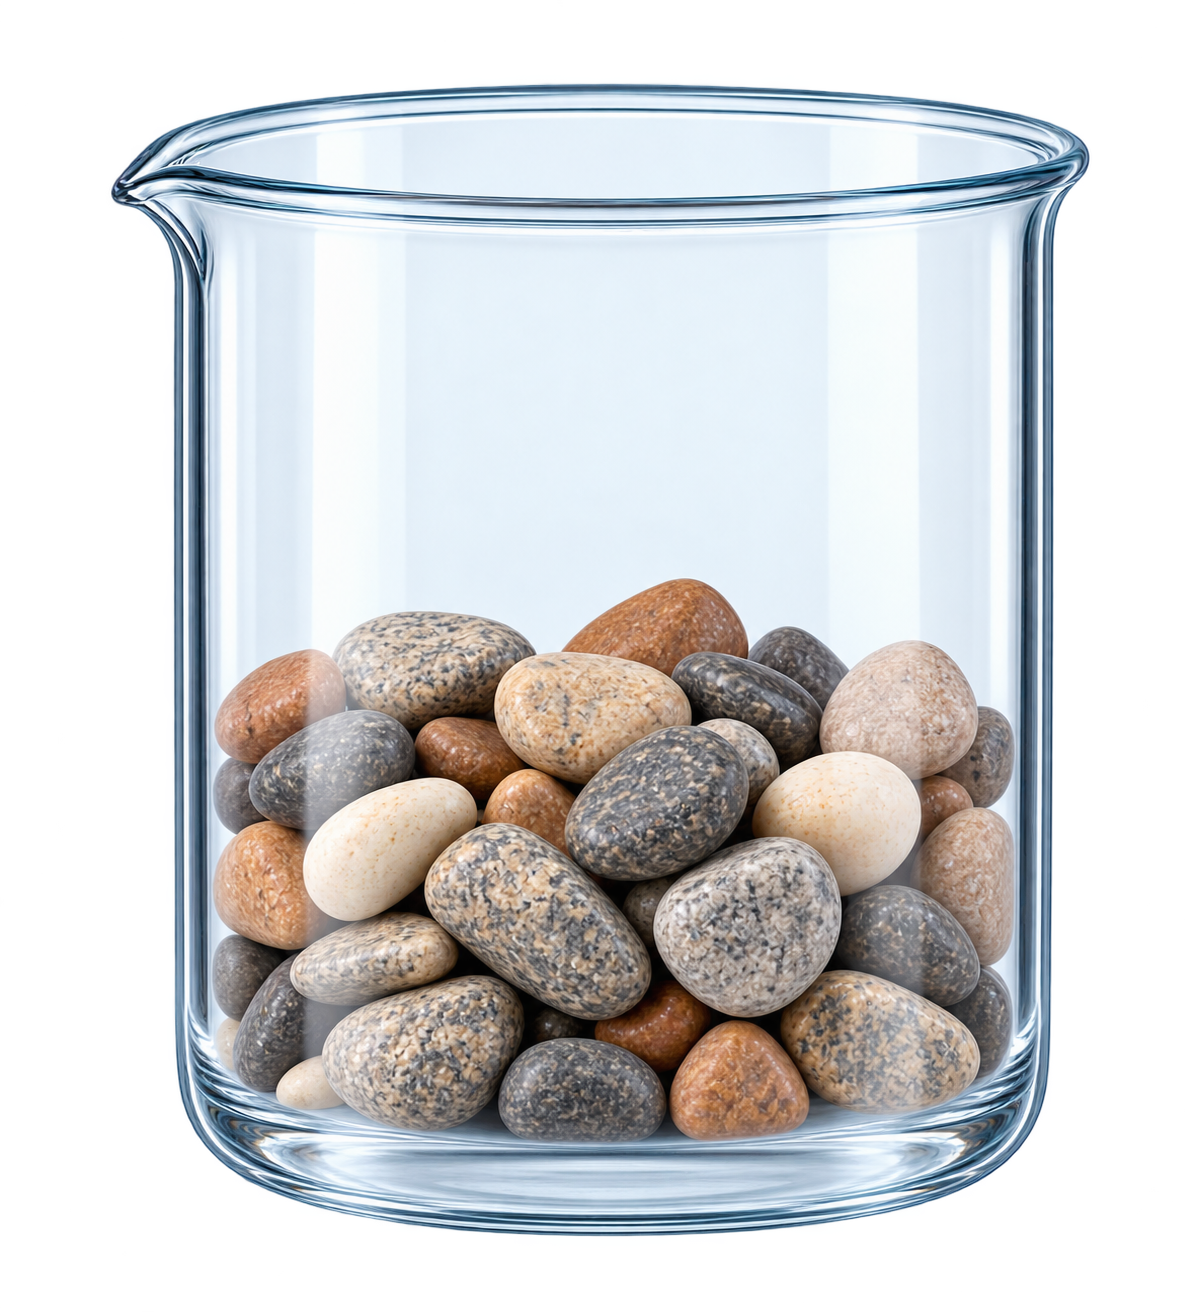
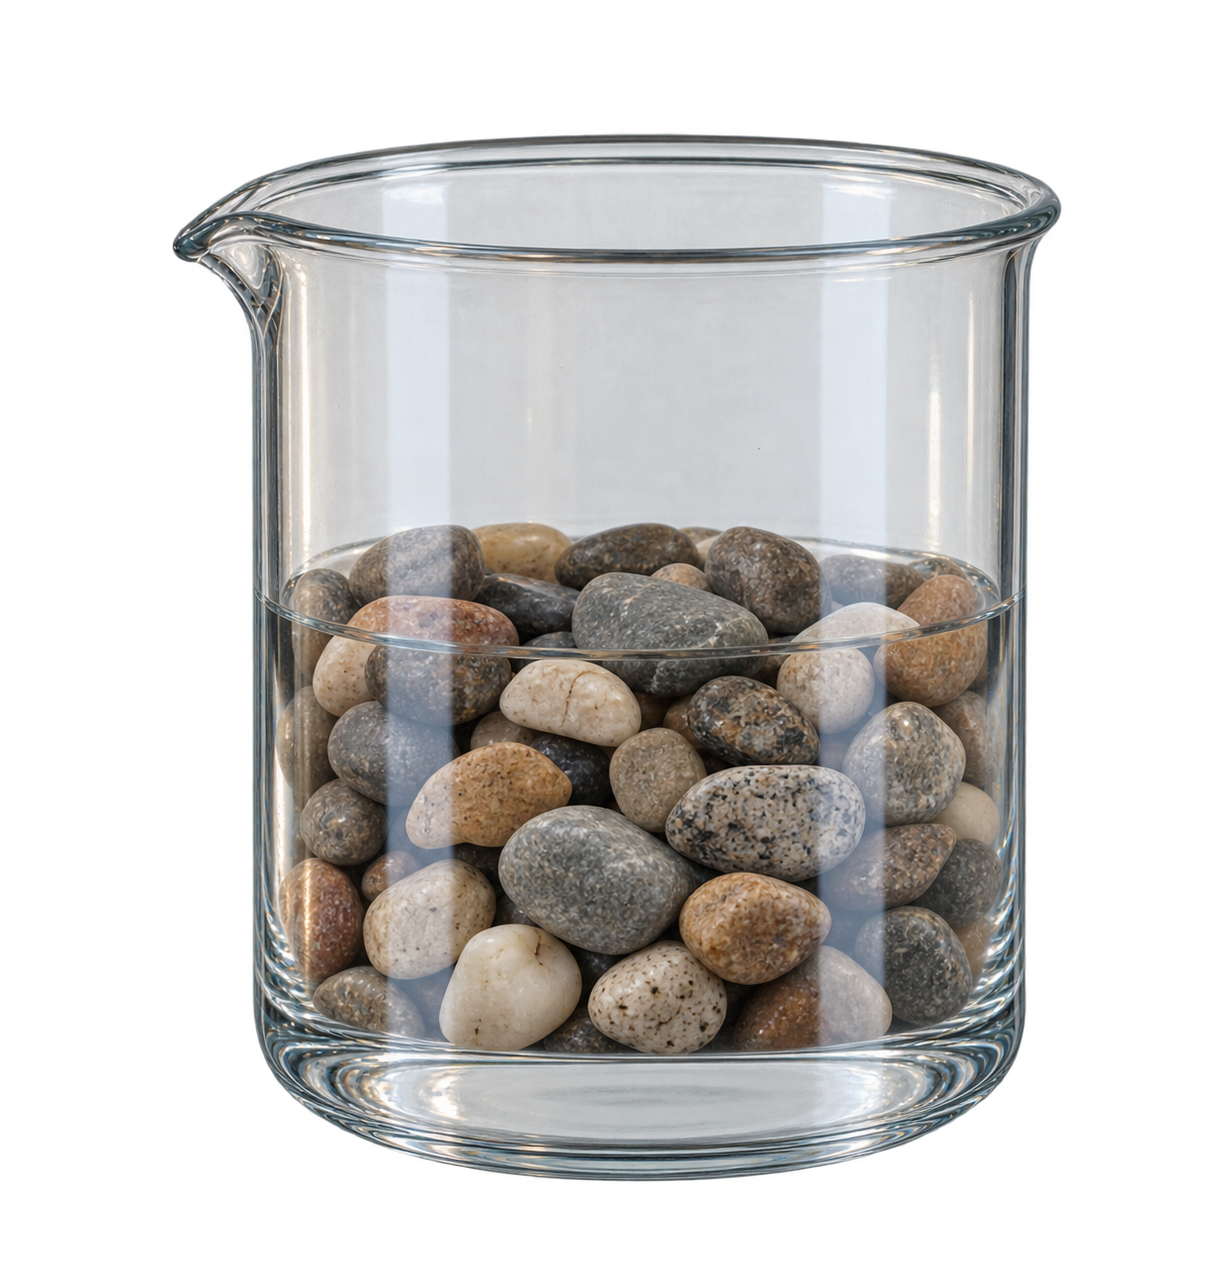
Enhance 3D perspective of beaker and clean up UI

diff --git a/src/science/class6/chapter6/MaterialsAroundUs/components/Stage8a_Mass_Components/WeighingScale.jsx b/src/science/class6/chapter6/MaterialsAroundUs/components/Stage8a_Mass_Components/WeighingScale.jsx
@@ -94,17 +94,42 @@ export const WeighingScale = ({ currentCupOnScale, mass, isHovered }) => {
           }}
         />
 
-        {/* Realistic image weighing scale */}
-        <img 
-          src={weighingMachineImg} 
-          alt="Weighing Scale"
-          style={{
+        <div style={{
+          position: 'absolute',
+          top: 0, left: 0, width: '100%', height: '100%',
+          pointerEvents: 'none'
+        }}>
+          {/* Subtle elliptical shadow directly under the scale body to ground it realistically */}
+          <div style={{
             position: 'absolute',
-            top: 0, left: 0, width: '100%', height: '100%',
-            objectFit: 'contain',
-            pointerEvents: 'none'
-          }}
-        />
+            bottom: '2%', left: '5%', width: '90%', height: '15%',
+            background: 'radial-gradient(ellipse at center, rgba(0,0,0,0.4) 0%, rgba(0,0,0,0) 70%)',
+            pointerEvents: 'none',
+            zIndex: 0
+          }} />
+          <img 
+            src={weighingMachineImg} 
+            alt="Weighing Scale"
+            style={{
+              width: '100%', height: '100%',
+              objectFit: 'contain',
+              position: 'relative',
+              zIndex: 1,
+              mixBlendMode: 'multiply' // Completely removes any white background boundary
+            }}
+          />
+          {/* Subtle reflection over the metal pan to enhance 3D volumetric feel */}
+          <div style={{
+            position: 'absolute',
+            top: '30%', left: '25%', width: '50%', height: '20%',
+            background: 'linear-gradient(135deg, rgba(255,255,255,0.4) 0%, rgba(255,255,255,0) 40%, rgba(255,255,255,0) 100%)',
+            borderRadius: '10px',
+            transform: 'perspective(500px) rotateX(45deg)',
+            pointerEvents: 'none',
+            zIndex: 2,
+            mixBlendMode: 'overlay'
+          }} />
+        </div>
 
         {/* LCD Overlay for live mass reading – aligned to the green LCD rectangle */}
         <div style={{
@@ -136,7 +161,7 @@ export const WeighingScale = ({ currentCupOnScale, mass, isHovered }) => {
             color: '#1a1f1c', 
             fontWeight: 'bold',
             letterSpacing: '1px',
-            textShadow: '0px 0px 1px rgba(0,0,0,0.3)',
+            textShadow: '1px 1px 1px rgba(255,255,255,0.3), -1px -1px 2px rgba(0,0,0,0.3)',
             whiteSpace: 'nowrap'
           }}>
             {displayMass ? `${displayMass.toFixed(2)} g` : '0.00 g'}

diff --git a/src/science/class6/chapter6/MaterialsAroundUs/components/Stage8a_Mass_Components/RealisticCup.jsx b/src/science/class6/chapter6/MaterialsAroundUs/components/Stage8a_Mass_Components/RealisticCup.jsx
@@ -237,7 +237,11 @@ export const RealisticCup = ({ material, velocityX = 0 }) => {
         position: 'relative', 
         width: '100%', 
         height: '100%',
-        transform: 'translateZ(0)'
+        // 3D perspective to tilt the beaker so it matches the scale's angle
+        transform: 'perspective(800px) rotateX(10deg) rotateY(-3deg) translateZ(0)',
+        transformOrigin: 'bottom center',
+        // Grounding shadows cast behind and slightly to the side
+        filter: 'drop-shadow(5px 20px 15px rgba(0,0,0,0.3)) drop-shadow(2px 5px 5px rgba(0,0,0,0.2))'
       }}>
         <img
           src={cupImgSrc}
@@ -247,7 +251,9 @@ export const RealisticCup = ({ material, velocityX = 0 }) => {
             height: '100%',
             objectFit: 'contain',
             pointerEvents: 'none',
-            display: 'block'
+            display: 'block',
+            position: 'relative',
+            zIndex: 1
           }}
         />
       </div>

diff --git a/src/science/class6/chapter6/MaterialsAroundUs/components/Stage8a_Mass.jsx b/src/science/class6/chapter6/MaterialsAroundUs/components/Stage8a_Mass.jsx
@@ -255,7 +255,6 @@ export default function Stage8a_Mass({ onComplete, addXp }) {
         {/* Footer Progress */}
         <div style={{ flex: '1', background: '#FFFFFF', border: '1px solid var(--lesson-border)', borderRadius: '16px', padding: '0.75rem 1.5rem', display: 'flex', justifyContent: 'space-between', alignItems: 'center' }}>
           <div style={{ display: 'flex', alignItems: 'center', gap: '12px', color: '#A64B27' }}>
-            <Target size={20} />
             <span style={{ color: 'var(--lesson-secondary)', fontSize: '1.1rem', fontWeight: '700' }}>Weigh all 3 cups to uncover their mass.</span>
           </div>
           <div style={{ display: 'flex', alignItems: 'center' }}>
